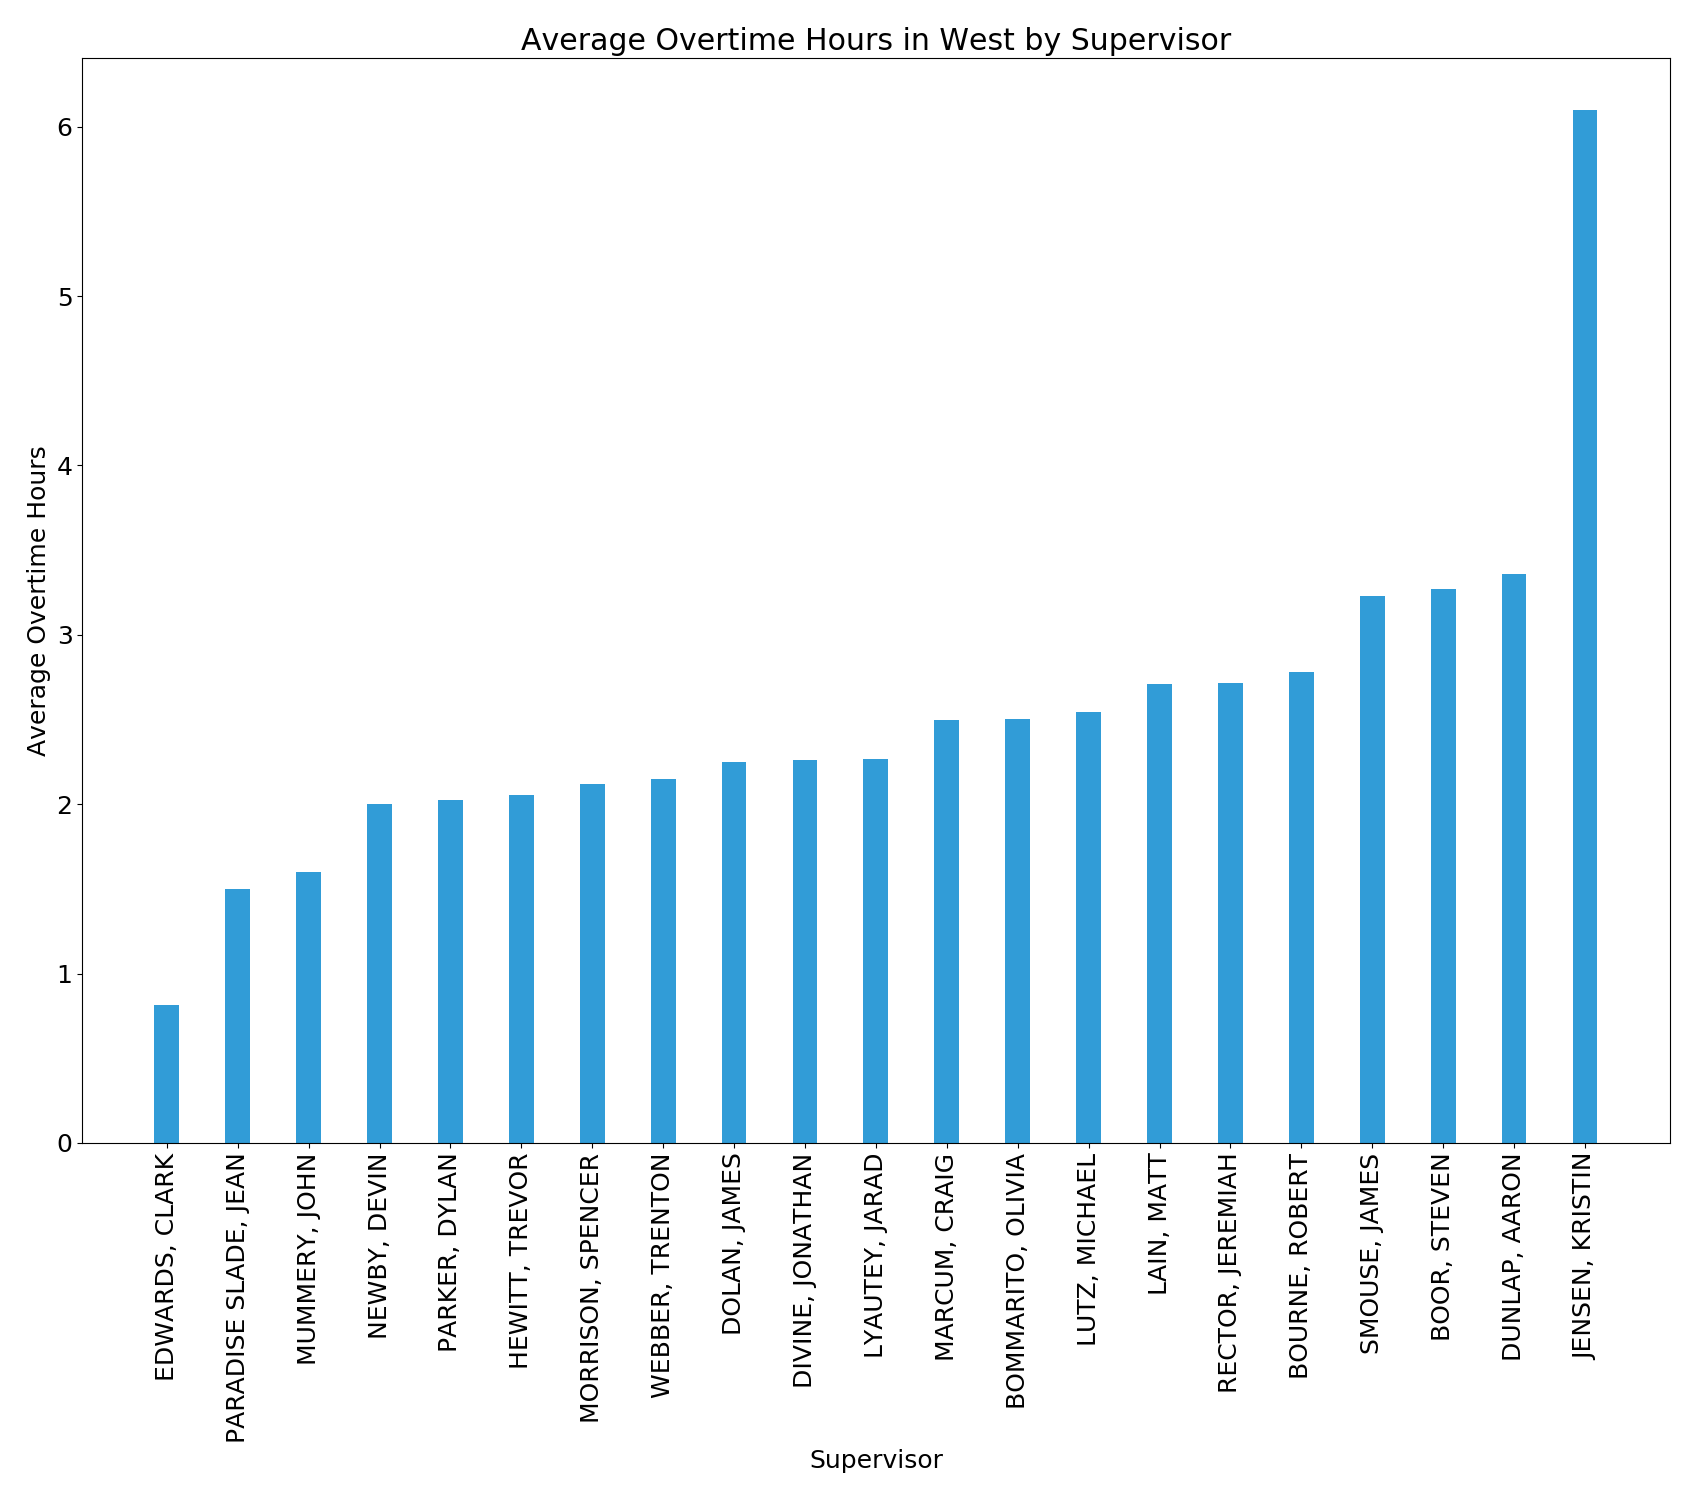
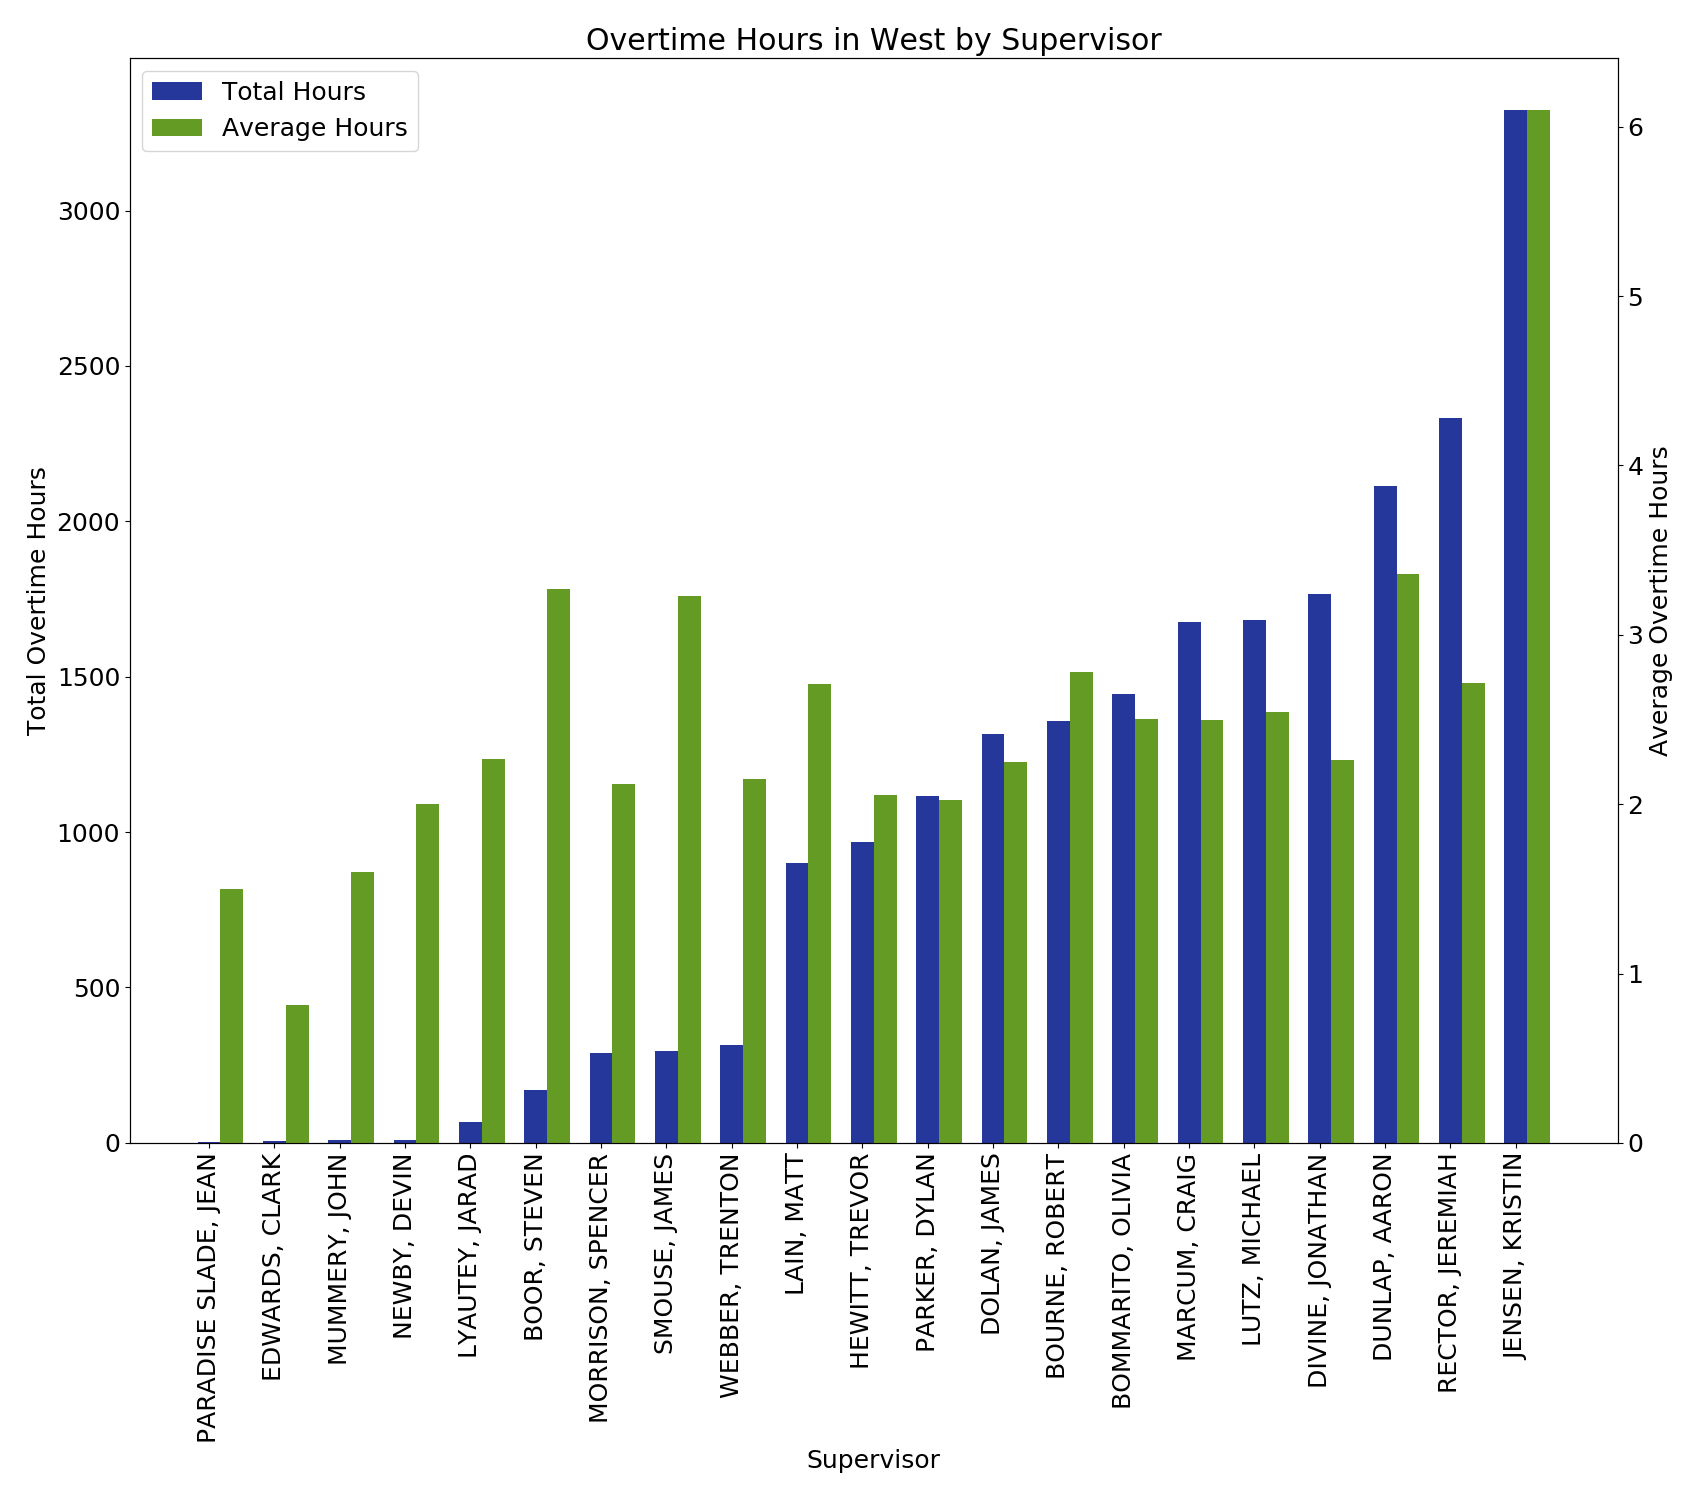
combining avg and sum

diff --git a/eda.py b/eda.py
@@ -64,23 +64,32 @@ def west_sup_plot(df):
 	fig, ax1 = plt.subplots(1, 1, figsize=(17, 15))
 	matplotlib.rcParams.update({'font.size': 18})
 
-	temp_dic = {}
+	sum_dic = {}
+	mean_dic = {}
 	y_dic = {}
+	y2_dic = {}
 	for sup in sorted(df['supervisor'].astype(str).unique()):
-		temp_dic[sup] = df[df['supervisor'] == sup]['remuneration__number'].mean()
+		sum_dic[sup] = df[df['supervisor'] == sup]['remuneration__number'].sum()
+		mean_dic[sup] = df[df['supervisor'] == sup]['remuneration__number'].mean()
 
-	for sup in sorted(temp_dic, key=temp_dic.__getitem__):
-		y_dic[sup] = temp_dic[sup]
+	for sup in sorted(sum_dic, key=sum_dic.__getitem__):
+		y_dic[sup] = sum_dic[sup]
+		y2_dic[sup] = mean_dic[sup]
 
 	ind = np.arange(len(y_dic))
 	width = 0.35
 
-	p1 = ax1.bar(ind, y_dic.values(), width, color='#319cd7')
-	ax1.set_ylabel('Average Overtime Hours')
+	p1 = ax1.bar(ind, y_dic.values(), width, color='#25379b')
+	ax1.set_ylabel('Total Overtime Hours')
 	ax1.set_xlabel('Supervisor')
 	plt.xticks(ind, y_dic.keys(), rotation='vertical')
 
-	plt.title('Average Overtime Hours in West by Supervisor')
+	ax2 = ax1.twinx()
+	p2 = ax2.bar(ind + width, y2_dic.values(), width, color='#649b25')
+	ax2.set_ylabel('Average Overtime Hours')
+
+	plt.title('Overtime Hours in West by Supervisor')
+	plt.legend((p1[0], p2[0]), ('Total Hours', 'Average Hours'), loc=2)
 	plt.tight_layout()
 
 	plt.savefig('images/west_overtime.png')
